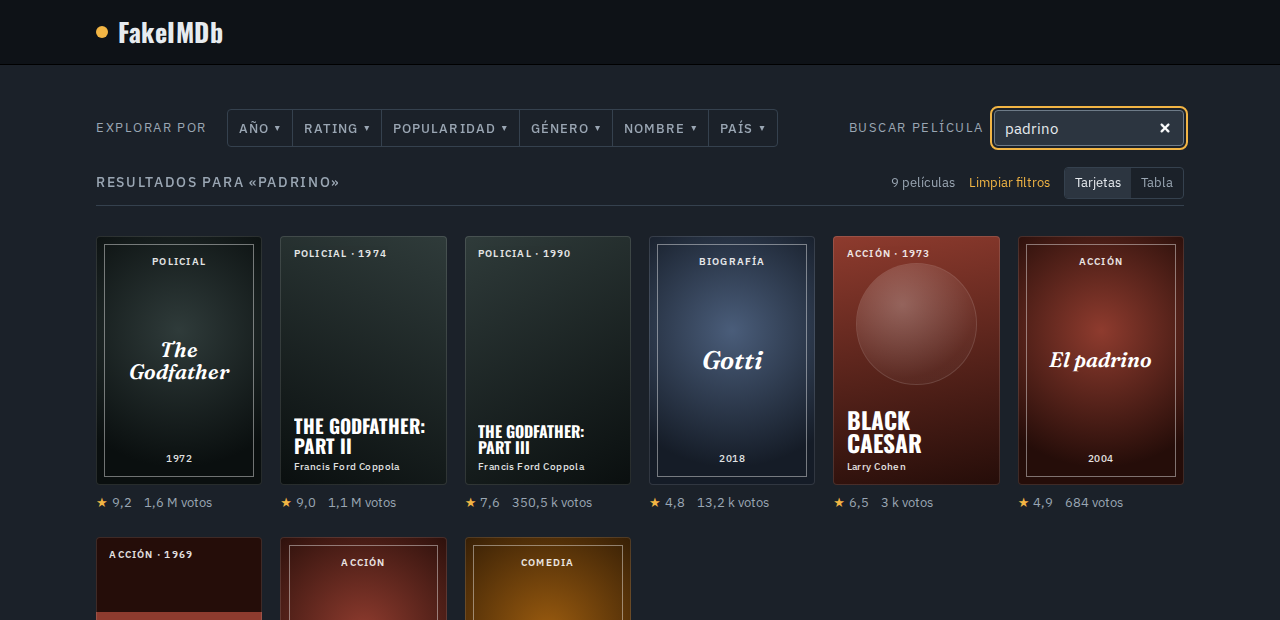
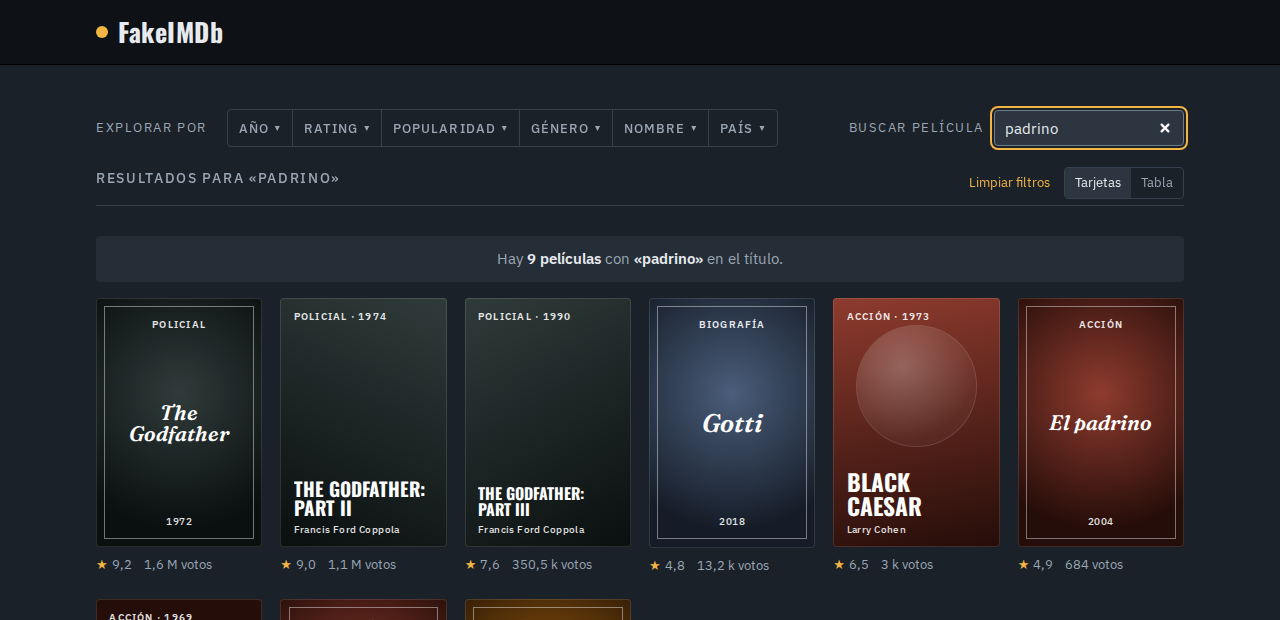
docs: actualizo la interfaz, las capturas y la cantidad de tests
- ui.md: los menus con varias opciones y el punto, tocar de nuevo para sacar, la tira de años, la leyenda, el titulo de la seccion con solo el orden, la columna Pais y el estado en la URL con decade.
- README: lo que se puede filtrar, y los tests (202 y 76).
- Las capturas de la tabla y de la busqueda, que ahora muestran la columna Pais, la tira de años y la leyenda.

diff --git a/docs/ui.md b/docs/ui.md
@@ -39,25 +39,34 @@ Letterboxd. La dirección se validó con una maqueta navegable hecha con datos r
 
   | Menú | Opciones | Qué pide a la API |
   |---|---|---|
-  | Año | Todas; 2020s, 2010s… hasta 1890s | `year_from` y `year_to` de la década |
+  | Año | Todas; 2020s, 2010s… hasta 1890s. Se pueden elegir varias | `decade`, una por década |
   | Rating | Más alto primero, más bajo primero | `sort=rating`, con `order` |
   | Popularidad | Más votadas, menos votadas | `sort=votes`, con `order` |
-  | Género | Todos y los 25 géneros, en español | `genre` |
+  | Género | Todos y los 25 géneros, en español. Se pueden elegir varios: quedan las películas que tienen todos | `genre`, uno por género |
   | Nombre | De la A a la Z, de la Z a la A | `sort=title`, con `order` |
   | País | Abre la página de países | — |
 
-- **El título de la sección** dice qué se está viendo: «Mejor valoradas» por defecto, o por ejemplo
-  «Mejor valoradas · Policial · 1990s». Con una búsqueda, dice «Resultados para "godf"».
+- **Lo elegido se marca con un punto** del color del logo, más discreto que una tilde. Elegir de nuevo algo
+  elegido lo saca, en cualquier menú: una década, un género o un orden, que vuelve al de por defecto. Año y
+  Género quedan abiertos después de cada clic, para elegir varios; Esc o un clic afuera los cierra.
+- **Con una sola década elegida, abajo aparece la tira de sus años**, como en Letterboxd: «2010s», 2010, 2011…
+  Solo muestra los años con películas (`GET /years`). Un año filtra solo ese año (`year_from` y `year_to`);
+  tocarlo de nuevo, o tocar la década, vuelve a la década entera.
+- **El título de la sección** dice el orden: «Mejor valoradas» por defecto. Con una búsqueda, dice
+  «Resultados para "godf"».
+- **La leyenda** cuenta en una frase lo que dejan los filtros, con los valores en negrita: «Hay 430 películas
+  del género Drama, hechas en Italia, estrenadas en los 2010s». Mientras cargan los resultados nuevos, sigue
+  describiendo los que están en pantalla. Sin filtros no aparece, y la cantidad va arriba a la derecha.
 - **«Limpiar filtros»** aparece cuando hay algo elegido y vuelve al estado inicial.
 - **Cada página muestra 24 películas**, que llenan cuatro filas de seis en un escritorio.
 
 ### Vista tabla
 
 ```text
-| TÍTULO                       | AÑO  | GÉNEROS              | DURACIÓN   | RATING | VOTOS     |
-|------------------------------|------|----------------------|------------|--------|-----------|
-| Pulp Fiction                 | 1994 | Policial, Drama      | 2 h 34 min |    8,9 | 1.780.147 |
-| Goodfellas                   | 1990 | Biografía, Policial… | 2 h 26 min |    8,7 |   991.505 |
+| TÍTULO         | AÑO  | GÉNEROS              | PAÍS            | DURACIÓN   | RATING | VOTOS     |
+|----------------|------|----------------------|-----------------|------------|--------|-----------|
+| Pulp Fiction   | 1994 | Policial, Drama      | Estados Unidos  | 2 h 34 min |    8,9 | 1.780.147 |
+| Goodfellas     | 1990 | Biografía, Policial… | Estados Unidos  | 2 h 26 min |    8,7 |   991.505 |
 ```
 
 - **Título, Año, Duración, Rating y Votos ordenan**, y llevan `aria-sort`, también para el orden por defecto. Un
@@ -140,7 +149,8 @@ Letterboxd. La dirección se validó con una maqueta navegable hecha con datos r
 - **Búsqueda en tiempo real:**
   - consulta la API 300 ms después de la última tecla;
   - un pedido nuevo cancela al anterior, y una respuesta vieja nunca reemplaza a una nueva.
-- **Estado en la URL:** `?q=&page=&year_from=&year_to=&genre=&country=&sort=&order=`. Se puede compartir,
+- **Estado en la URL:** `?q=&page=&genre=&country=&decade=&year_from=&year_to=&sort=&order=`, con `genre`,
+  `country` y `decade` repetibles. Se puede compartir,
   recargar y usar el botón atrás. Cambiar la búsqueda o un filtro vuelve a la página 1.
 - **Formato es-AR con `Intl`:**
   - votos con separador de miles (2.278.845) y abreviados en las tarjetas (2,3 M);

diff --git a/README.md b/README.md
@@ -2,8 +2,8 @@
 
 Una API REST en Flask y una interfaz en React para explorar y buscar las 85.855 películas del CSV de IMDb.
 Se busca por título mientras se escribe, en el título original o en el italiano, sin importar mayúsculas ni
-acentos. También se puede filtrar por género, década y país (con un mapa), ordenar y ver el detalle de cada
-película. Los datos viven en PostgreSQL, y todo se levanta con un solo comando.
+acentos. También se puede filtrar por uno o varios géneros, décadas (o un año) y países (con un mapa), ordenar
+y ver el detalle de cada película. Los datos viven en PostgreSQL, y todo se levanta con un solo comando.
 
 ![La pantalla de explorar: barra «Explorar por», búsqueda y pósters generados](docs/screenshots/explorar.png)
 
@@ -142,7 +142,7 @@ responde. Nunca devuelven un stack trace.
 ## Tests
 
 ```bash
-# Backend: 191 tests contra un PostgreSQL real, incluidos los criterios de aceptación sobre el CSV completo
+# Backend: 202 tests contra un PostgreSQL real, incluidos los criterios de aceptación sobre el CSV completo
 cd backend
 python3.12 -m venv .venv && .venv/bin/pip install -r requirements-dev.txt
 docker run -d --name imdb-dev-db -e POSTGRES_USER=movies -e POSTGRES_PASSWORD=movies \
@@ -150,7 +150,7 @@ docker run -d --name imdb-dev-db -e POSTGRES_USER=movies -e POSTGRES_PASSWORD=mo
 docker exec imdb-dev-db psql -U movies -c "CREATE DATABASE movies_test"
 TEST_DATABASE_URL=postgresql+psycopg://movies:movies@localhost:5433/movies_test .venv/bin/pytest
 
-# Front: 66 tests con Vitest, React Testing Library y MSW
+# Front: 76 tests con Vitest, React Testing Library y MSW
 cd frontend
 npm ci
 npm test
